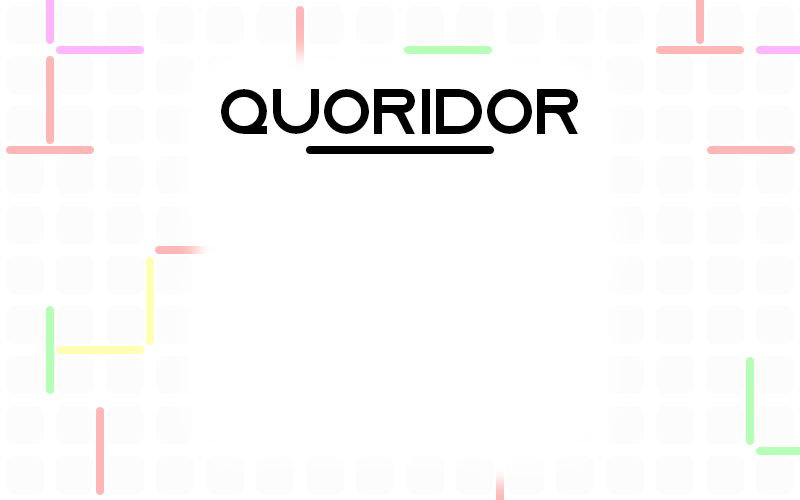
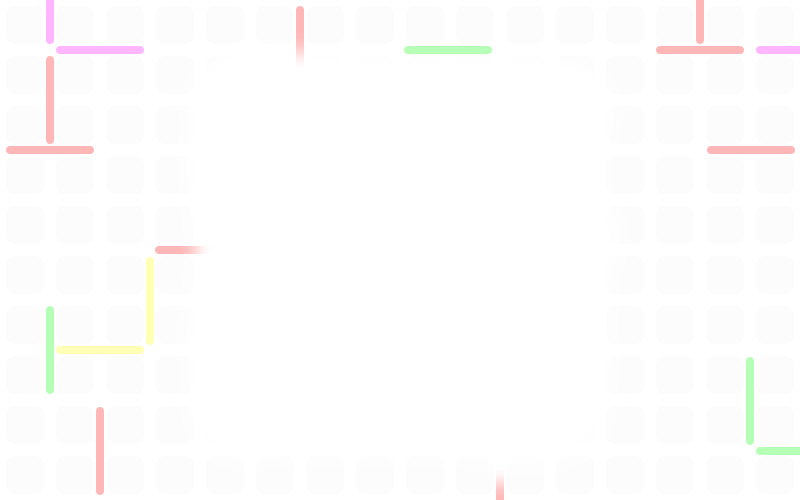
FXML

Changed region(s): [[0.25, 0.18, 0.7188, 0.33]]

diff --git a/src/be/nicolasdelp/quoridor/style/stylesheet.css b/src/be/nicolasdelp/quoridor/style/stylesheet.css
@@ -32,3 +32,10 @@
 .button4:hover{
     -fx-background-color: #ffff0025;
 }
+
+.tablePlayers{
+    -fx-color: #ffffff;
+    -fx-background-color: #ffffff;
+    -fx-font-family: "Comfortaa";
+
+}

diff --git a/src/be/nicolasdelp/quoridor/FXMLController.java b/src/be/nicolasdelp/quoridor/FXMLController.java
@@ -6,45 +6,48 @@ import javafx.event.ActionEvent;
 import javafx.fxml.FXML;
 import javafx.fxml.Initializable;
 import javafx.scene.control.Button;
+import javafx.scene.control.ChoiceBox;
+import javafx.scene.control.TabPane;
+import javafx.scene.layout.Pane;
 
 public class FXMLController implements Initializable{
 
     @FXML
     private ResourceBundle resources;
-
-    @FXML
     private URL location;
-
-    @FXML
+    private Pane menuPane;
     private Button resumeGameButton;
-
-    @FXML
     private Button newGameButton;
-
-    @FXML
     private Button optionButton;
-
-    @FXML
     private Button creditsButton;
+    private Pane newGamePane;
+    private TabPane tabPlayers;
+    private Button startGameButton;
+    private ChoiceBox<?> numberOfPlayers;
 
     @FXML
-    void resumeGame(ActionEvent event) {
-        System.out.println("Action resumeGame");
+    void credits(ActionEvent event) {
+        System.out.println("Coucou");
     }
 
     @FXML
     void newGame(ActionEvent event) {
-        System.out.println("Action newgame");
+
     }
 
     @FXML
     void option(ActionEvent event) {
-        System.out.println("Action options");
+
     }
 
     @FXML
-    void credits(ActionEvent event) {
-        System.out.println("Action credits");
+    void resumeGame(ActionEvent event) {
+
+    }
+
+    @FXML
+    void startGame(ActionEvent event) {
+
     }
 
     @Override

diff --git a/src/be/nicolasdelp/quoridor/Main.java b/src/be/nicolasdelp/quoridor/Main.java
@@ -9,16 +9,16 @@ import javafx.stage.Stage;
 
 public class Main extends Application{
 
-    public static void main(String[] args) {
-        launch(args);
-    }
-
     @Override
-    public void start(Stage primaryStage) throws java.lang.Exception {
+    public void start(final Stage primaryStage) throws java.lang.Exception {
         Parent root = FXMLLoader.load(getClass().getResource("style/style.fxml"));
         primaryStage.setTitle("QUORIDOR");
         primaryStage.setScene(new Scene(root));
         primaryStage.setResizable(false);
         primaryStage.show();
+    }
+
+    public static void main(String[] args) {
+        launch(args);
     }
 }
